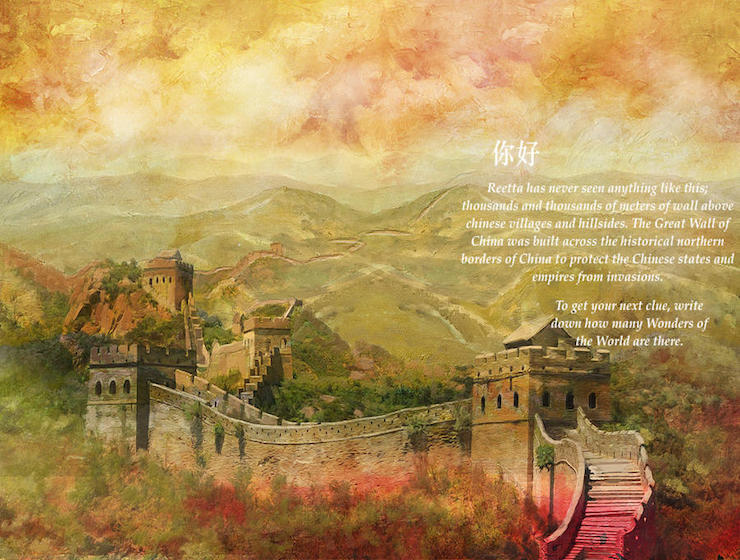
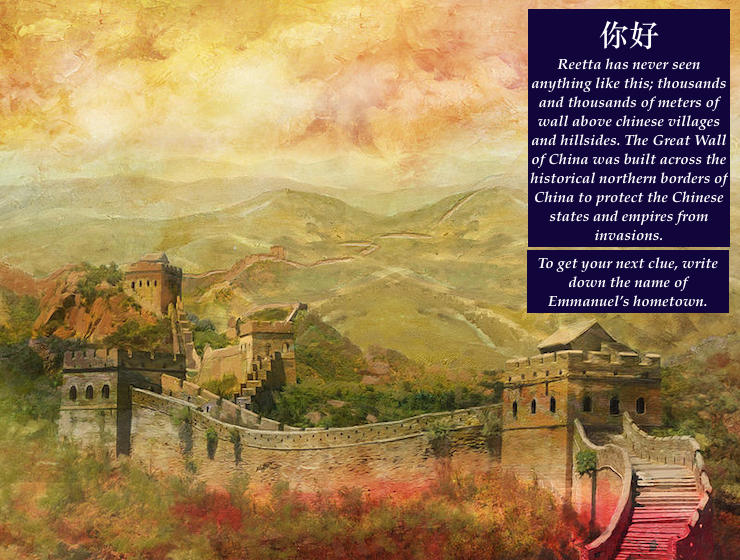
newestDLday

diff --git a/mission.js b/mission.js
@@ -104,19 +104,23 @@ function openMission(item) {
 function drawMission(mission) {
 	ctx.font="30px Palatino";			//for later texts
 	ctx.drawImage(mission.img, 0, 0);
-	currentMission = mission;
+	currentMission = mission;			//sets the currentMission (global)
 	console.log("currentMission in draw mission: " + currentMission);
-	// var correctAnswer = mission.answer;
+	//initiating the reaction and clue elements on top of the canvas
+	var clue = currentMission.clue;
+	var reaction = currentMission.reaction;
+	$("#clue").html(clue);
+	$("#reaction").html(reaction);
+	//console.log($("#canvasContainer").val());
 }
 
 
 
 function submitAnswer() {
-	//console.log($("#answerCandidate").val() + "submitted String");
-	var candidate = $("#answerCandidate").val()//.trim().toLowerCase();
-	//console.log(candidate);
-	//console.log(currentMission.answer);
+	hideTextBox();	//ensures that only one submit/visit
+	$(".interactive").css("visibility", "visible");
 
+	var candidate = $("#answerCandidate").val().trim().toLowerCase();
 	if (candidate === currentMission.answer) {
 		currentMission.state = true;
 		missionSuccess(currentMission);
@@ -130,17 +134,20 @@ function submitAnswer() {
 
 /*reactions that happen after mission success*/
 function missionSuccess(mission) {
-	currentMission.state = true;
-	ctx.fillText("SUCCESS", 50, 500);	//better if .show()
+	$("#clue").css("visibility", "visible");
+	//ctx.fillText("SUCCESS", 50, 500);	//better if .show()
 }
 
 
 function missionFailure(mission) {
-	ctx.fillText("FAILURE", 50, 500);	//better if .show()
+	$("#reaction").css("visibility", "visible")
+	//ctx.fillText("FAILURE", 50, 500);	//better if .show()
 }
 
 function backToMap() {
 	console.log("back to map");
+	$(".interactive").css("visibility", "hidden");
+	$("#clue, #reaction").css("visibility", "hidden");	//syntax works
 	animationState = true;
 	listenToArrows(true);
 	game();

diff --git a/sini/gamestyle.css b/sini/gamestyle.css
@@ -36,23 +36,24 @@ input {
 
 #return {
 
-
 /*opacity: 0.7;
 border:1px, black; /*#F7A1E7
 border-radius: 8px;
 font-size: 20px;
 font-family:"Coronetscript";
 display:inline-block;*/
+	position: relative;
+	top:40px;
 	color:black;
 	font-size: 20px;
 	font-family:"Coronetscript";
-	opacity:0.5;
+	opacity:0.7;
 	background-color: #ffffff;
 	border-radius: 3px;
 	border: 1px, solid black;
-	width: 80px;
+	width: 180px;
 	float:left;
-	-webkit-transform: rotate(-40deg);
+	/*-webkit-transform: rotate(-40deg);*/
 
 }
 
@@ -65,10 +66,10 @@ border-radius: 8px;
 font-size: 20px;
 font-family:"Palatino Linotype";
 float:right;
-width: 80px;
+width: 180px;
 background-color: #ffffff ; /*#9DF794*/
 opacity:0.5;
--webkit-transform: rotate(40deg);
+/*-webkit-transform: rotate(40deg);*/
 
 }
 
@@ -78,7 +79,7 @@ opacity:0.5;
 	position: relative;
 	/*z-index: 0;*/
 	padding-top:10px;
-	padding-left: 90px;
+	padding-left: 0px;
 }
 
 /*papyrus-image*/
@@ -130,19 +131,19 @@ opacity:0.5;
 }
 
 #return:hover{
-	opacity:0.8;
+	opacity:1;
 }
 
 #next:hover{
-	opacity:0.8;
+	opacity:1;
 }
 
 #start:hover{
-	opacity:0.8;
+	opacity:1;
 }
 
 #again:hover{
-	opacity:0.8;
+	opacity:1;
 }
 
 #title{
@@ -216,6 +217,43 @@ opacity:0.5;
 	padding-top: 80px;
 
 }
+
+.interactive {
+	width: 670px;
+	height: 100px;
+	visibility:hidden;
+	position: relative;
+	top: 540px;
+	right: -18px;
+	padding: 1%;
+	border-radius:20px;
+	background-color:#E0E0E0;
+	/*background: linear-gradient(170deg, #123450, #12083A);*/
+	color:#12083A;			/*for content*/
+	box-shadow: 3px 4px 5px black;
+	/*inset: 3px 4px 5px black;*/
+	font-family: Palatino, Consolas;
+	font-style: normal;
+	font-size:14px;
+}
+
+#clue {
+	visibility:hidden;
+}
+
+#reaction {
+	visibility:hidden;
+}
+
+
+
+
+
+
+
+
+
+
 
 
 

diff --git a/testpage.html b/testpage.html
@@ -12,10 +12,14 @@
 
 </head>
 <body>
-	<div>
-		<canvas id="canvasElement">
 
-		</canvas>
+	<div id="canvasContainer">
+		<h2>The Adventures of a Globetrotter</h2>
+		<div class="interactive">
+			<p id="reaction">REACTION REACTION REACTION REACTION</p>
+			<p id="clue">CLUE CLUE CLUE CLUE</p>
+		</div>
+		<canvas id="canvas"></canvas>
 	</div>
 	<div id = "help">
             <p id ="title">Instructions</p>
@@ -26,7 +30,7 @@
       </div>
 	<div id="buttons" >
 
-		<div id="return" onclick="backToMap()"><img id="returnButton" src="sini/returnArrow.png"/></div>
+		<div id="return" onclick="backToMap()"><img id="returnButton" src="sini/return.png"/></div>
 
         <div id="textBox">
         	<img src="sini/papyrus2.png">
@@ -35,12 +39,12 @@
             	<div id="submit" onclick="submitAnswer()">Check</div>
             </form>
         </div>
-
+<!-- 
         <div id="clues">
 
-        </div>
+        </div> -->
 
-		<div id="next"><img id="nextButton" src="sini/nextArrow.png"/></div>
+		<div id="next"><img id="nextButton" src="sini/next.png"/></div>
 
 	</div>
 </body>

diff --git a/mapAnimation.js b/mapAnimation.js
@@ -37,13 +37,13 @@ var currentMission = null;
 var p = null;
 
 /*collision STATE*/
-var collisionState = false;
+//var collisionState = false;
 
 
 /*Creating the canvas before running the game. */
 function createCanvas() {
 	console.log("creating canvas...");
-	canvas = document.getElementById("canvasElement");
+	canvas = document.getElementById("canvas");
 	canvas.width = cWidth;
 	canvas.height = cHeight;
 
